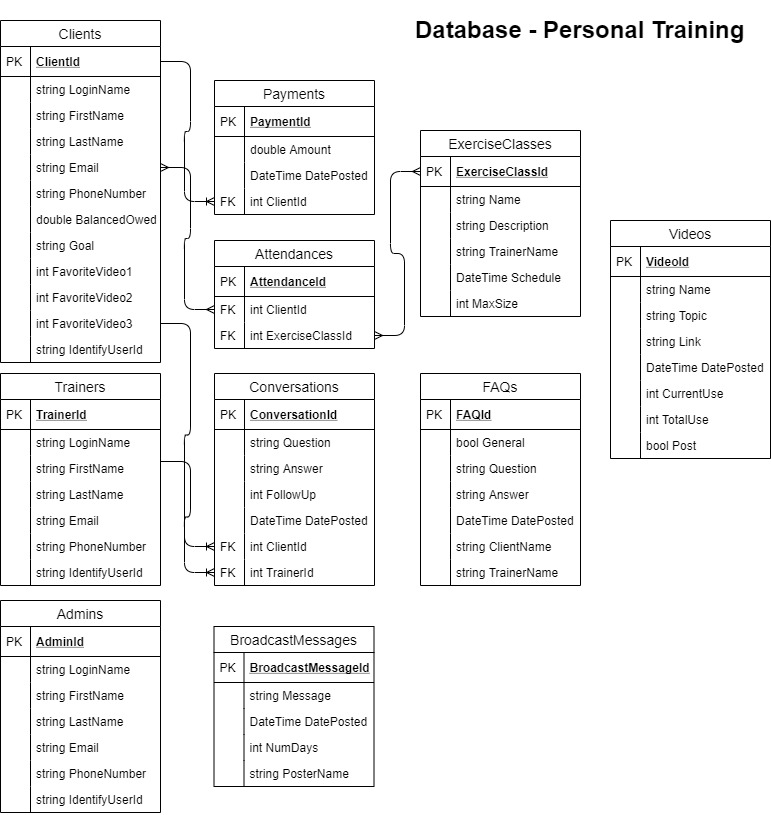
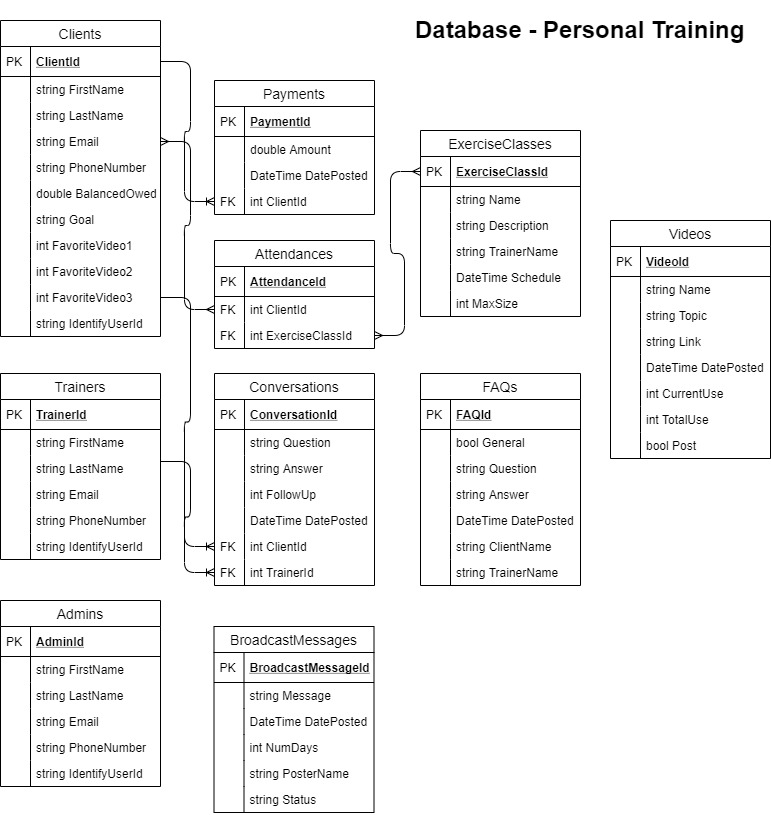
BroadcastMessages controllers in frontend and backend are complete and working.

diff --git a/SPFWebsitMVC/SPFWebsitMVC/Controllers/BroadcastMessagesController.cs b/SPFWebsitMVC/SPFWebsitMVC/Controllers/BroadcastMessagesController.cs
@@ -1,10 +1,13 @@
 using System;
 using System.Collections.Generic;
 using System.Linq;
+using System.Net.Http;
+using System.Text;
 using System.Threading.Tasks;
 using Microsoft.AspNetCore.Mvc;
 using Microsoft.AspNetCore.Mvc.Rendering;
 using Microsoft.EntityFrameworkCore;
+using Newtonsoft.Json;
 using SPFWebsitMVC.Data;
 using SPFWebsitMVC.Models;
 
@@ -22,7 +25,32 @@ namespace SPFWebsitMVC.Controllers
         // GET: BroadcastMessages
         public async Task<IActionResult> Index()
         {
-            return View(await _context.BroadcastMessage.ToListAsync());
+            List<BroadcastMessage> BroadcastMessages = null;
+            HttpClient httpClient = new HttpClient();
+            string url = $"{GlobalSettings.baseEndpoint}/broadcastmessages/";
+            HttpResponseMessage response;
+
+            // Display all BroadcastMessages
+            if (GlobalSettings.CurrentUserRole == "Admin")
+            {
+                response = await httpClient.GetAsync(url);
+                if (response.IsSuccessStatusCode)
+                {
+                    string jsonResponse = await response.Content.ReadAsStringAsync();
+                    BroadcastMessages = JsonConvert.DeserializeObject<List<BroadcastMessage>>(jsonResponse);
+                }
+                return View(BroadcastMessages);
+            }
+            // Only display the current BroadcastMessages
+            url += "GetCurrentBroadcastMessages/";
+            response = await httpClient.GetAsync(url);
+            if (response.IsSuccessStatusCode)
+            {
+                string jsonResponse = await response.Content.ReadAsStringAsync();
+                BroadcastMessages = JsonConvert.DeserializeObject<List<BroadcastMessage>>(jsonResponse);
+            }
+
+            return View(BroadcastMessages);
         }
 
         // GET: BroadcastMessages/Details/5
@@ -33,14 +61,22 @@ namespace SPFWebsitMVC.Controllers
                 return NotFound();
             }
 
-            var broadcastMessage = await _context.BroadcastMessage
-                .FirstOrDefaultAsync(m => m.BroadcastMessageId == id);
-            if (broadcastMessage == null)
+            BroadcastMessage message = null;
+            HttpClient httpClient = new HttpClient();
+            string url = $"{GlobalSettings.baseEndpoint}/broadcastmessages/{id}";
+            HttpResponseMessage response = await httpClient.GetAsync(url);
+            if (response.IsSuccessStatusCode)
+            {
+                string jsonResponse = await response.Content.ReadAsStringAsync();
+                message = JsonConvert.DeserializeObject<BroadcastMessage>(jsonResponse);
+            }
+
+            if (message == null)
             {
                 return NotFound();
             }
 
-            return View(broadcastMessage);
+            return View(message);
         }
 
         // GET: BroadcastMessages/Create
@@ -54,13 +90,18 @@ namespace SPFWebsitMVC.Controllers
         // more details, see http://go.microsoft.com/fwlink/?LinkId=317598.
         [HttpPost]
         [ValidateAntiForgeryToken]
-        public async Task<IActionResult> Create([Bind("BroadcastMessageId,Message,DatePosted,NumDays,PosterName")] BroadcastMessage broadcastMessage)
+        public async Task<IActionResult> Create([Bind("BroadcastMessageId,Message,DatePosted,NumDays,PosterName,Status")] BroadcastMessage broadcastMessage)
         {
             if (ModelState.IsValid)
             {
-                _context.Add(broadcastMessage);
-                await _context.SaveChangesAsync();
-                return RedirectToAction(nameof(Index));
+                string jsonForPost = JsonConvert.SerializeObject(broadcastMessage);
+                HttpClient httpClient = new HttpClient();
+                string url = $"{GlobalSettings.baseEndpoint}/broadcastmessages";
+                HttpResponseMessage response = await httpClient.PostAsync(url, new StringContent(jsonForPost, Encoding.UTF8, "application/json"));
+                if (response.IsSuccessStatusCode)
+                {
+                    return RedirectToAction("Index", "BroadcastMessages");
+                }
             }
             return View(broadcastMessage);
         }
@@ -73,12 +114,21 @@ namespace SPFWebsitMVC.Controllers
                 return NotFound();
             }
 
-            var broadcastMessage = await _context.BroadcastMessage.FindAsync(id);
-            if (broadcastMessage == null)
+            BroadcastMessage message = null;
+            HttpClient httpClient = new HttpClient();
+            string url = $"{GlobalSettings.baseEndpoint}/broadcastmessages/{id}";
+            HttpResponseMessage response = await httpClient.GetAsync(url);
+            if (response.IsSuccessStatusCode)
+            {
+                string jsonResponse = await response.Content.ReadAsStringAsync();
+                message = JsonConvert.DeserializeObject<BroadcastMessage>(jsonResponse);
+            }
+
+            if (message == null)
             {
                 return NotFound();
             }
-            return View(broadcastMessage);
+            return View(message);
         }
 
         // POST: BroadcastMessages/Edit/5
@@ -86,7 +136,7 @@ namespace SPFWebsitMVC.Controllers
         // more details, see http://go.microsoft.com/fwlink/?LinkId=317598.
         [HttpPost]
         [ValidateAntiForgeryToken]
-        public async Task<IActionResult> Edit(int id, [Bind("BroadcastMessageId,Message,DatePosted,NumDays,PosterName")] BroadcastMessage broadcastMessage)
+        public async Task<IActionResult> Edit(int id, [Bind("BroadcastMessageId,Message,DatePosted,NumDays,PosterName,Status")] BroadcastMessage broadcastMessage)
         {
             if (id != broadcastMessage.BroadcastMessageId)
             {
@@ -97,12 +147,14 @@ namespace SPFWebsitMVC.Controllers
             {
                 try
                 {
-                    _context.Update(broadcastMessage);
-                    await _context.SaveChangesAsync();
+                    string jsonForPost = JsonConvert.SerializeObject(broadcastMessage);
+                    HttpClient httpClient = new HttpClient();
+                    string url = $"{GlobalSettings.baseEndpoint}/broadcastmessages/{id}";
+                    HttpResponseMessage response = await httpClient.PutAsync(url, new StringContent(jsonForPost, Encoding.UTF8, "application/json"));
                 }
                 catch (DbUpdateConcurrencyException)
                 {
-                    if (!BroadcastMessageExists(broadcastMessage.BroadcastMessageId))
+                    if (await BroadcastMessageExists(id) == false)
                     {
                         return NotFound();
                     }
@@ -111,7 +163,7 @@ namespace SPFWebsitMVC.Controllers
                         throw;
                     }
                 }
-                return RedirectToAction(nameof(Index));
+                return RedirectToAction("Index");
             }
             return View(broadcastMessage);
         }
@@ -124,30 +176,51 @@ namespace SPFWebsitMVC.Controllers
                 return NotFound();
             }
 
-            var broadcastMessage = await _context.BroadcastMessage
-                .FirstOrDefaultAsync(m => m.BroadcastMessageId == id);
-            if (broadcastMessage == null)
+            BroadcastMessage message = null;
+            HttpClient httpClient = new HttpClient();
+            string url = $"{GlobalSettings.baseEndpoint}/broadcastmessages/{id}";
+            HttpResponseMessage response = await httpClient.GetAsync(url);
+            if (response.IsSuccessStatusCode)
+            {
+                string jsonResponse = await response.Content.ReadAsStringAsync();
+                message = JsonConvert.DeserializeObject<BroadcastMessage>(jsonResponse);
+            }
+
+            if (message == null)
             {
                 return NotFound();
             }
 
-            return View(broadcastMessage);
+            return View(message);
         }
 
         // POST: BroadcastMessages/Delete/5
         [HttpPost, ActionName("Delete")]
         [ValidateAntiForgeryToken]
-        public async Task<IActionResult> DeleteConfirmed(int id)
+        public async Task<IActionResult> DeleteConfirmed(int? id)
         {
-            var broadcastMessage = await _context.BroadcastMessage.FindAsync(id);
-            _context.BroadcastMessage.Remove(broadcastMessage);
-            await _context.SaveChangesAsync();
-            return RedirectToAction(nameof(Index));
+            if (id == null)
+            {
+                return NotFound();
+            }
+
+            HttpClient httpClient = new HttpClient();
+            string url = $"{GlobalSettings.baseEndpoint}/broadcastmessages/{id}";
+            HttpResponseMessage response = await httpClient.DeleteAsync(url);
+            return RedirectToAction("Index");
         }
 
-        private bool BroadcastMessageExists(int id)
+        private async Task<bool> BroadcastMessageExists(int? id)
         {
-            return _context.BroadcastMessage.Any(e => e.BroadcastMessageId == id);
+            HttpClient httpClient = new HttpClient();
+            string url = $"{GlobalSettings.baseEndpoint}/broadcastmessages/{id}";
+            HttpResponseMessage response = await httpClient.GetAsync(url);
+            if (response.IsSuccessStatusCode)
+            {
+                return true;
+            }
+
+            return false;
         }
     }
 }

diff --git a/PersonalTraining/Controllers/BroadcastMessagesController.cs b/PersonalTraining/Controllers/BroadcastMessagesController.cs
@@ -25,7 +25,16 @@ namespace PersonalTraining.Controllers
         [HttpGet]
         public async Task<ActionResult<IEnumerable<BroadcastMessage>>> GetBroadcastMessages()
         {
+            await UpdateBroadcastMessagesStatus();
             return await _context.BroadcastMessages.ToListAsync();
+        }
+
+        // GET: api/BroadcastMessages/GetCurrentBroadcastMessages
+        [HttpGet("GetCurrentBroadcastMessages")]
+        public async Task<ActionResult<IEnumerable<BroadcastMessage>>> GetCurrentBroadcastMessages()
+        {
+            await UpdateBroadcastMessagesStatus();
+            return await _context.BroadcastMessages.Where(m => m.Status == "Current").ToListAsync();
         }
 
         // GET: api/BroadcastMessages/5
@@ -105,6 +114,31 @@ namespace PersonalTraining.Controllers
         private bool BroadcastMessageExists(int id)
         {
             return _context.BroadcastMessages.Any(e => e.BroadcastMessageId == id);
+        }
+
+        private async Task UpdateBroadcastMessagesStatus()
+        {
+            DateTime nowDate = DateTime.Now;
+            DateTime expireDate;
+            string status = "";
+            // Even update "Expired" messages since they could have been edited to make current.
+            List<BroadcastMessage> Messages = _context.BroadcastMessages.ToList();
+
+            foreach(BroadcastMessage message in Messages)
+            {
+                expireDate = message.DatePosted.AddDays(message.NumDays-1);
+                if (expireDate.Year < nowDate.Year || 
+                    (expireDate.Year == nowDate.Year && expireDate.DayOfYear < nowDate.DayOfYear))
+                    status = "Expired";
+                else if (message.DatePosted.Year > nowDate.Year ||
+                        (message.DatePosted.Year == nowDate.Year && message.DatePosted.DayOfYear > nowDate.DayOfYear))
+                    status = "Future";
+                else status = "Current";
+
+                message.Status = status;
+                _context.Entry(message).State = EntityState.Modified;
+            }
+            await _context.SaveChangesAsync();
         }
     }
 }

diff --git a/PersonalTraining/Migrations/20200623134103_Initial.Designer.cs b/PersonalTraining/Migrations/20200623134103_Initial.Designer.cs
@@ -10,7 +10,7 @@ using PersonalTraining.Data;
 namespace PersonalTraining.Migrations
 {
     [DbContext(typeof(ApplicationDBContext))]
-    [Migration("20200620133713_Initial")]
+    [Migration("20200623134103_Initial")]
     partial class Initial
     {
         protected override void BuildTargetModel(ModelBuilder modelBuilder)
@@ -98,6 +98,9 @@ namespace PersonalTraining.Migrations
                         .HasColumnType("int");
 
                     b.Property<string>("PosterName")
+                        .HasColumnType("nvarchar(max)");
+
+                    b.Property<string>("Status")
                         .HasColumnType("nvarchar(max)");
 
                     b.HasKey("BroadcastMessageId");

diff --git a/PersonalTraining/Migrations/20200623134103_Initial.cs b/PersonalTraining/Migrations/20200623134103_Initial.cs
@@ -33,7 +33,8 @@ namespace PersonalTraining.Migrations
                     Message = table.Column<string>(nullable: true),
                     DatePosted = table.Column<DateTime>(nullable: false),
                     NumDays = table.Column<int>(nullable: false),
-                    PosterName = table.Column<string>(nullable: true)
+                    PosterName = table.Column<string>(nullable: true),
+                    Status = table.Column<string>(nullable: true)
                 },
                 constraints: table =>
                 {

diff --git a/PersonalTraining/Models/BroadcastMessage.cs b/PersonalTraining/Models/BroadcastMessage.cs
@@ -17,9 +17,12 @@ namespace PersonalTraining.Models
         [DisplayFormat(DataFormatString = "{0:MM/dd/yyyy}")]
         public DateTime DatePosted { get; set; }
 
+        [Display(Name = "Days Valid")]
         public int NumDays { get; set; }
         
         [Display(Name = "Posted By")]
         public string PosterName { get; set; }
+
+        public string Status { get; set; }
     }
 }

diff --git a/SPFWebsitMVC/SPFWebsitMVC/Models/BroadcastMessage.cs b/SPFWebsitMVC/SPFWebsitMVC/Models/BroadcastMessage.cs
@@ -17,9 +17,12 @@ namespace SPFWebsitMVC.Models
         [DisplayFormat(DataFormatString = "{0:MM/dd/yyyy}")]
         public DateTime DatePosted { get; set; }
 
+        [Display(Name = "Days Valid")]
         public int NumDays { get; set; }
 
         [Display(Name = "Posted By")]
         public string PosterName { get; set; }
+
+        public string Status { get; set; }
     }
 }

diff --git a/PersonalTraining/Migrations/ApplicationDBContextModelSnapshot.cs b/PersonalTraining/Migrations/ApplicationDBContextModelSnapshot.cs
@@ -98,6 +98,9 @@ namespace PersonalTraining.Migrations
                     b.Property<string>("PosterName")
                         .HasColumnType("nvarchar(max)");
 
+                    b.Property<string>("Status")
+                        .HasColumnType("nvarchar(max)");
+
                     b.HasKey("BroadcastMessageId");
 
                     b.ToTable("BroadcastMessages");
